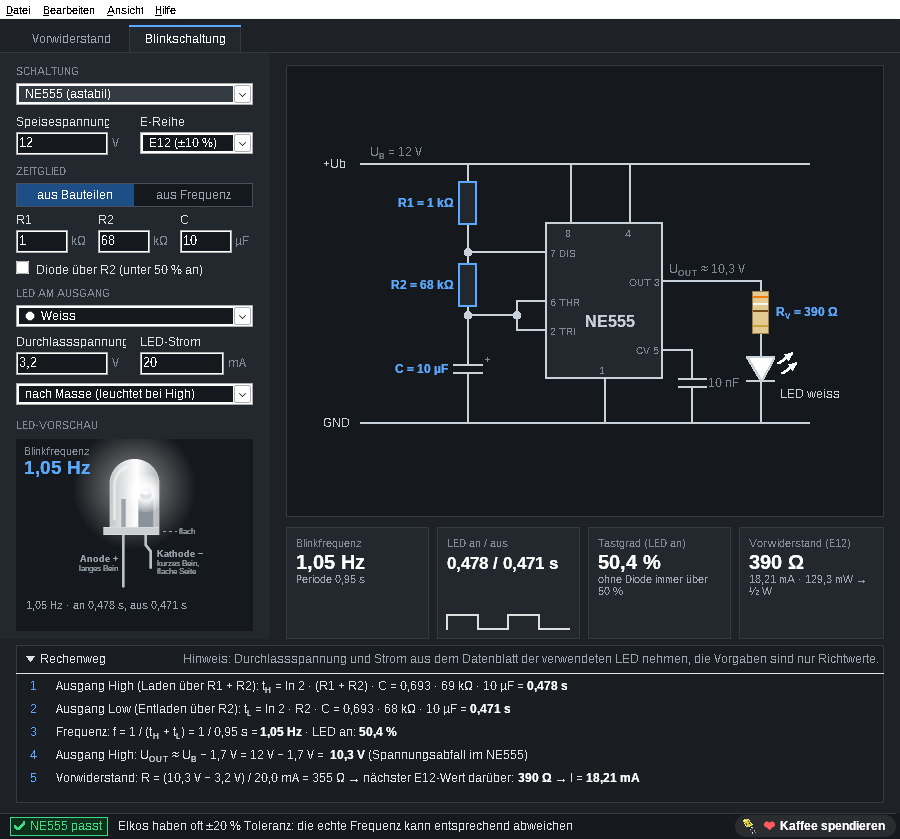
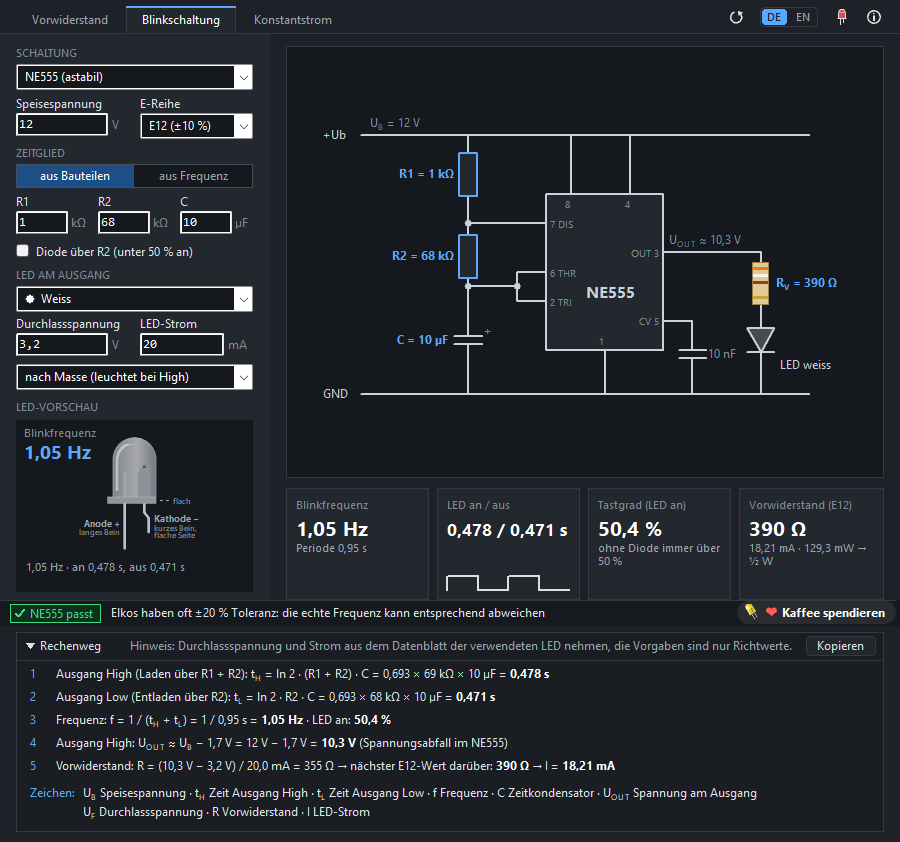
Projektseite 2.4 (#15)
* Projektseite 2.4: Konstantstrom, Stränge parallel, DE/EN-Schalter, Kopieren-Knopf (Entwurf, Bilder folgen)

* Projektseite 2.4: neue Windows-Bilder ohne Menüleiste, Abschnitt Konstantstrom

* CHANGELOG: 2.4 veröffentlicht am 14. November 2026

* Projektseite: Bilder aus der fertigen 2.4, neues Symbol, Vorschaubilder

---------

diff --git a/site/de/index.html b/site/de/index.html
@@ -4,7 +4,7 @@
 <meta charset="utf-8">
 <meta name="viewport" content="width=device-width, initial-scale=1">
 <title>LedPreResistor – kostenloser LED-Vorwiderstandsrechner für Windows und Linux</title>
-<meta name="description" content="Elospeed LedPreResistor berechnet den Vorwiderstand für eine oder mehrere LEDs: Normwert aus E12/E24/E96, Farbringe, tatsächlicher Strom, Leistung und passende Bauform, mit Rechenweg Schritt für Schritt, dazu ein Rechner für Blinkschaltungen mit NE555 und Multivibrator. Kostenlos, Open Source, für Windows und Linux.">
+<meta name="description" content="Elospeed LedPreResistor berechnet den Vorwiderstand für eine oder mehrere LEDs: Normwert aus E12/E24/E96, Farbringe, tatsächlicher Strom, Leistung und passende Bauform, mit Rechenweg Schritt für Schritt, dazu ein Rechner für Blinkschaltungen mit NE555 und Multivibrator sowie Konstantstromquellen mit LM317 oder zwei Transistoren. Kostenlos, Open Source, für Windows und Linux.">
 <meta name="keywords" content="LED Vorwiderstand berechnen, Vorwiderstand Rechner, LED Widerstand, E12, E24, E96, Farbcode Widerstand, NE555 Blinker, astabiler Multivibrator, LED Blinkschaltung, Elektronik, Windows, Linux, kostenlos, Open Source">
 <meta name="author" content="Elospeed">
 <meta name="robots" content="index, follow">
@@ -41,10 +41,10 @@
   "name": "Elospeed LedPreResistor",
   "operatingSystem": "Windows 10, Windows 11 (64-bit), Linux (x86_64)",
   "applicationCategory": "UtilitiesApplication",
-  "description": "Berechnet den Vorwiderstand für eine oder mehrere LEDs in Reihe: nächsthöherer Normwert aus E12, E24 oder E96, Farbringe, tatsächlicher Strom, Leistung und empfohlene Bauform, mit Rechenweg Schritt für Schritt. Rechnet auch LED-Blinkschaltungen mit NE555 oder Multivibrator mit zwei Transistoren.",
+  "description": "Berechnet den Vorwiderstand für eine oder mehrere LEDs in Reihe: nächsthöherer Normwert aus E12, E24 oder E96, Farbringe, tatsächlicher Strom, Leistung und empfohlene Bauform, mit Rechenweg Schritt für Schritt. Rechnet auch LED-Blinkschaltungen mit NE555 oder Multivibrator mit zwei Transistoren sowie Konstantstromquellen mit LM317 oder zwei Transistoren.",
   "url": "https://elospeed.github.io/LedPreResistor/de/",
   "downloadUrl": "https://github.com/Elospeed/LedPreResistor/releases/latest",
-  "softwareVersion": "2.3",
+  "softwareVersion": "2.4",
   "inLanguage": "de",
   "license": "https://opensource.org/licenses/MIT",
   "isAccessibleForFree": true,
@@ -62,6 +62,7 @@
     <nav>
       <a class="hide-m" href="#funktionen">Funktionen</a>
       <a class="hide-m" href="#blinken">Blinken</a>
+      <a class="hide-m" href="#konstantstrom">Konstantstrom</a>
       <a class="hide-m" href="#so-gehts">So geht's</a>
       <a class="hide-m" href="#faq">Fragen</a>
       <a class="hide-m" href="https://github.com/Elospeed/LedPreResistor">GitHub</a>
@@ -79,8 +80,8 @@
     <h1>Der richtige Widerstand<br>für <span class="grad">jede LED</span></h1>
     <p class="lead">Speisespannung eingeben, LED-Farbe und Strom wählen. LedPreResistor sucht den nächsten Normwiderstand, zeigt seine Farbringe, den tatsächlichen Strom und die Leistung und sagt dir, welche Bauform du brauchst. Jeder Rechenschritt steht mit deinen eigenen Zahlen da. Ein kleines Programm für Windows und Linux, kostenlos und Open Source.</p>
     <div class="cta">
-      <a class="btn primary" href="https://github.com/Elospeed/LedPreResistor/releases/download/v2.3/LedPreResistor-2.3.zip">⬇ Download für Windows</a>
-      <a class="btn primary" href="https://github.com/Elospeed/LedPreResistor/releases/download/v2.3/LedPreResistor-2.3-linux-x86_64.tar.gz">⬇ Download für Linux</a>
+      <a class="btn primary" href="https://github.com/Elospeed/LedPreResistor/releases/download/v2.4/LedPreResistor-2.4.zip">⬇ Download für Windows</a>
+      <a class="btn primary" href="https://github.com/Elospeed/LedPreResistor/releases/download/v2.4/LedPreResistor-2.4-linux-x86_64.tar.gz">⬇ Download für Linux</a>
       <a class="btn" href="https://github.com/Elospeed/LedPreResistor">Quelltext auf GitHub</a>
     </div>
     <ul class="facts">
@@ -90,10 +91,11 @@
       <li>Läuft offline</li>
       <li>E12, E24 und E96</li>
       <li>Blinkschaltungen: NE555 und Multivibrator</li>
+      <li>Konstantstrom: LM317 und zwei Transistoren</li>
     </ul>
     <figure class="shot hero-shot">
-      <div class="bar"><img src="../img/icon-32.png" alt=""><span>LedPreResistor · Elospeed 2.3</span><i class="min"></i><i class="max"></i><i class="cls"></i></div>
-      <img src="../img/ledpreresistor-main.png" width="900" height="839" alt="Hauptfenster von LedPreResistor: 12 V, weisse LED, 20 mA. Schaltplan mit 470-Ohm-Widerstand, Farbringe gelb violett braun gold, 18,72 mA, 164,8 mW, empfohlene Bauform ein halbes Watt, darunter der Rechenweg">
+      <div class="bar"><img src="../img/icon-32.png" alt=""><span>LedPreResistor · Elospeed 2.4</span><i class="min"></i><i class="max"></i><i class="cls"></i></div>
+      <img src="../img/ledpreresistor-main.png" width="900" height="842" alt="Hauptfenster von LedPreResistor: 12 V, weisse LED, 20 mA. Schaltplan mit 470-Ohm-Widerstand, Farbringe gelb violett braun gold, 18,72 mA, 164,8 mW, empfohlene Bauform ein halbes Watt, darunter der Rechenweg">
     </figure>
   </div>
 </section>
@@ -107,7 +109,7 @@
       <div class="card"><h3><span class="dot" style="background:var(--yellow)"></span>Leistung und Bauform</h3><p>Tatsächlicher Strom, Leistung im Widerstand und in den LEDs. LedPreResistor empfiehlt ⅛, ¼, ½ oder 1 W und warnt ab 50 % Auslastung, mit geschätzter Erwärmung des Widerstands.</p></div>
       <div class="card"><h3><span class="dot" style="background:var(--green)"></span>Rechenweg Schritt für Schritt</h3><p>Ein aufklappbarer Bereich zeigt die fünf Schritte mit deinen Werten: Spannung am Widerstand, idealer Wert, Normwert, tatsächlicher Strom, Leistung und Erwärmung. Zum Lernen und zum Nachprüfen.</p></div>
       <div class="card"><h3><span class="dot" style="background:var(--blue)"></span>LED-Vorschau</h3><p>Eine realistische 5-mm-LED in der gewählten Farbe, Anode, Kathode und flache Seite beschriftet, damit sie richtig herum eingelötet wird. Im Reiter «Blinkschaltung» blinkt sie mit den berechneten Zeiten.</p></div>
-      <div class="card"><h3><span class="dot" style="background:var(--white)"></span>Schaltplan mit allen Werten</h3><p>Spannungsquelle, Widerstand und LED in einem übersichtlichen Schaltplan, mit Spannung, Strom und Widerstand an jedem Bauteil. Auch mehrere LEDs in Reihe.</p></div>
+      <div class="card"><h3><span class="dot" style="background:var(--white)"></span>Schaltplan mit allen Werten</h3><p>Spannungsquelle, Widerstand und LED in einem übersichtlichen Schaltplan, mit Spannung, Strom und Widerstand an jedem Bauteil. Auch mehrere LEDs in Reihe und mehrere gleiche Stränge parallel, jeder mit eigenem Vorwiderstand.</p></div>
       <div class="card"><h3><span class="dot" style="background:var(--accent)"></span>LED-Info eingebaut</h3><p>Mit F1 öffnet sich «Die Leuchtdiode»: wie eine LED funktioniert, Farben und Durchlassspannungen, Polarität, Vorwiderstand, Konstantstrom und Praxistipps. Im Browser, auch offline.</p></div>
     </div>
   </div>
@@ -122,14 +124,14 @@
         <li><strong>Grün, gelb, rot</strong> in der Statuszeile: Auslastung eines normalen ¼-W-Widerstands und geschätzte Erwärmung</li>
         <li><strong>Ab 50 % Auslastung</strong> wird die nächstgrössere Bauform empfohlen, wie es erfahrene Bastler machen</li>
         <li><strong>Zu viel Leistung für einen Widerstand?</strong> Das Programm sagt es und schlägt eine Konstantstromquelle vor</li>
-        <li><strong>Resultat kopieren</strong> mit Strg+Umschalt+C, für Notizen oder einen Forumsbeitrag</li>
+        <li><strong>Resultat kopieren</strong> mit dem Knopf «Kopieren» oder Strg+Umschalt+C: Resultat, Rechenweg und Zeichen-Erklärung als einfacher Text, für Notizen oder einen Forumsbeitrag</li>
         <li>Vorgaben für rote, gelbe, grüne, blaue, weisse und Infrarot-LEDs, oder die eigene Durchlassspannung aus dem Datenblatt</li>
         <li>Komma und Punkt gehen beide; Pfeiltasten und Mausrad ändern die Werte</li>
       </ul>
     </div>
     <figure class="shot">
-      <div class="bar"><img src="../img/icon-32.png" alt=""><span>LedPreResistor · Elospeed 2.3</span><i class="min"></i><i class="max"></i><i class="cls"></i></div>
-      <img src="../img/ledpreresistor-warning.png" width="900" height="839" alt="LedPreResistor mit 9 V, roter LED, 25 mA: 330 Ohm, 148,5 mW, ein Viertelwatt-Widerstand wäre zu 59 Prozent ausgelastet, die Statuszeile warnt gelb und empfiehlt ein halbes Watt" loading="lazy">
+      <div class="bar"><img src="../img/icon-32.png" alt=""><span>LedPreResistor · Elospeed 2.4</span><i class="min"></i><i class="max"></i><i class="cls"></i></div>
+      <img src="../img/ledpreresistor-warning.png" width="900" height="842" alt="LedPreResistor mit 9 V, roter LED, 25 mA: 330 Ohm, 148,5 mW, ein Viertelwatt-Widerstand wäre zu 59 Prozent ausgelastet, die Statuszeile warnt gelb und empfiehlt ein halbes Watt" loading="lazy">
     </figure>
   </div>
 </section>
@@ -138,7 +140,7 @@
   <div class="wrap split rev">
     <div>
       <h2>Die LED blinken lassen</h2>
-      <p class="sub" style="margin-bottom:0">Neu in Version 2.3: Der Reiter «Blinkschaltung» rechnet die zwei klassischen Bastel-Blinker, mit Schaltplan, Rechenweg und Prüfungen.</p>
+      <p class="sub" style="margin-bottom:0">Seit Version 2.3: Der Reiter «Blinkschaltung» rechnet die zwei klassischen Bastel-Blinker, mit Schaltplan, Rechenweg und Prüfungen.</p>
       <ul class="ticks">
         <li><strong>NE555 astabil:</strong> An- und Aus-Zeit, Frequenz und Tastgrad aus R1, R2 und C, wahlweise mit Diode über R2 für kurze Blitze</li>
         <li><strong>Multivibrator mit zwei BC547:</strong> zwei LEDs blinken im Wechsel, standardmässig symmetrisch 1:1</li>
@@ -149,13 +151,33 @@
       </ul>
     </div>
     <figure class="shot">
-      <div class="bar"><img src="../img/icon-32.png" alt=""><span>LedPreResistor · Elospeed 2.3</span><i class="min"></i><i class="max"></i><i class="cls"></i></div>
-      <img src="../img/ledpreresistor-blink.png" width="900" height="839" alt="LedPreResistor Reiter Blinkschaltung: NE555 astabil mit R1 1 Kiloohm, R2 68 Kiloohm und 10 Mikrofarad an 12 V, 1,05 Hz, Tastgrad 50,4 Prozent, Vorwiderstand 390 Ohm für eine weisse LED, Schaltplan und Rechenweg" loading="lazy">
+      <div class="bar"><img src="../img/icon-32.png" alt=""><span>LedPreResistor · Elospeed 2.4</span><i class="min"></i><i class="max"></i><i class="cls"></i></div>
+      <img src="../img/ledpreresistor-blink.png" width="900" height="842" alt="LedPreResistor Reiter Blinkschaltung: NE555 astabil mit R1 1 Kiloohm, R2 68 Kiloohm und 10 Mikrofarad an 12 V, 1,05 Hz, Tastgrad 50,4 Prozent, Vorwiderstand 390 Ohm für eine weisse LED, Schaltplan und Rechenweg" loading="lazy">
     </figure>
   </div>
 </section>
 
-<section id="so-gehts">
+<section id="konstantstrom">
+  <div class="wrap split">
+    <div>
+      <h2>Konstantstrom für die LEDs</h2>
+      <p class="sub" style="margin-bottom:0">Neu in Version 2.4: Der Reiter «Konstantstrom» hält den LED-Strom fest, auch wenn die Speisespannung schwankt, zum Beispiel 12 bis 14,4 V im Auto.</p>
+      <ul class="ticks">
+        <li><strong>LM317 als Stromquelle:</strong> Fühlerwiderstand R = 1,25 V / I aus der E-Reihe, seine Leistung, die nötige Mindestspannung und der Verlust im Regler; Vorschlag LM317L oder LM317, bei Bedarf mit Hinweis auf einen Kühlkörper</li>
+        <li><strong>Zwei Transistoren:</strong> Fühlerwiderstand R_S = 0,6 V / I und Basiswiderstand R_B; T1 wird nach Strom und Leistung vorgeschlagen (BC547, BC337 oder BD139)</li>
+        <li><strong>Speisespannung als Bereich «von … bis»:</strong> zeigt, wie wenig sich der Strom ändert, im Vergleich zu einem einfachen Vorwiderstand</li>
+        <li>Schaltplan mit allen Werten, Rechenweg, Zeichen-Erklärung und Warnungen wie in den anderen Reitern</li>
+        <li>Die LED-Info erklärt Konstantstrom, Wärme und Kühlkörper in einem eigenen Kapitel</li>
+      </ul>
+    </div>
+    <figure class="shot">
+      <div class="bar"><img src="../img/icon-32.png" alt=""><span>LedPreResistor · Elospeed 2.4</span><i class="min"></i><i class="max"></i><i class="cls"></i></div>
+      <img src="../img/ledpreresistor-ksq.png" width="900" height="842" alt="LedPreResistor Reiter Konstantstrom: LM317 als Stromquelle für zwei weisse LEDs mit 20 mA, Speisespannung 12 bis 14,4 V, Fühlerwiderstand 68 Ohm, 18,38 mA, Schaltplan und Rechenweg" loading="lazy">
+    </figure>
+  </div>
+</section>
+
+<section id="so-gehts" class="alt">
   <div class="wrap">
     <h2>So geht's</h2>
     <p class="sub">In drei Schritten vom Datenblatt zum richtigen Widerstand.</p>
@@ -176,7 +198,7 @@
   </div>
 </section>
 
-<section class="alt">
+<section>
   <div class="wrap split">
     <div>
       <h2>Rechnen und dabei lernen</h2>
@@ -197,7 +219,7 @@
   </div>
 </section>
 
-<section id="faq">
+<section id="faq" class="alt">
   <div class="wrap">
     <h2>Fragen und Antworten</h2>
     <details>
@@ -222,11 +244,11 @@
     </details>
     <details>
       <summary>Gibt es LedPreResistor auch auf Englisch?</summary>
-      <p>Ja, seit Version 2.1. Programm und LED-Info gibt es auf Deutsch und Englisch. Auf einem deutschen Windows startet LedPreResistor deutsch, sonst englisch; unter Ansicht → Sprache lässt sich jederzeit umschalten.</p>
+      <p>Ja, seit Version 2.1. Programm und LED-Info gibt es auf Deutsch und Englisch. Auf einem deutschen Windows startet LedPreResistor deutsch, sonst englisch; mit dem Schalter DE/EN oben rechts lässt sich jederzeit umschalten.</p>
     </details>
     <details>
       <summary>Gibt es eine Linux-Version?</summary>
-      <p>Ja, seit Version 2.2: eine eigene Linux-Version (x86_64, GTK2), ohne Wine. <code>LedPreResistor-2.3-linux-x86_64.tar.gz</code> entpacken und <code>./LedPreResistor</code> starten. <code>./install.sh</code> nimmt das Programm ohne root ins Startmenü auf. Es braucht GTK2, das auf den meisten Systemen schon da ist (sonst <code>sudo apt install libgtk2.0-0</code>, <code>sudo dnf install gtk2</code> oder <code>sudo pacman -S gtk2</code>). Die Einstellungen liegen in <code>~/.config/LedPreResistor/</code>.</p>
+      <p>Ja, seit Version 2.2: eine eigene Linux-Version (x86_64, GTK2), ohne Wine. <code>LedPreResistor-2.4-linux-x86_64.tar.gz</code> entpacken und <code>./LedPreResistor</code> starten. <code>./install.sh</code> nimmt das Programm ohne root ins Startmenü auf. Es braucht GTK2, das auf den meisten Systemen schon da ist (sonst <code>sudo apt install libgtk2.0-0</code>, <code>sudo dnf install gtk2</code> oder <code>sudo pacman -S gtk2</code>). Die Einstellungen liegen in <code>~/.config/LedPreResistor/</code>.</p>
     </details>
     <details>
       <summary>Woher kommt LedPreResistor?</summary>
@@ -239,13 +261,13 @@
   </div>
 </section>
 
-<section class="alt">
+<section>
   <div class="wrap" style="text-align:center">
     <h2>Bereit für das nächste LED-Projekt?</h2>
     <p class="sub" style="margin:0 auto 26px">Für Windows oder Linux herunterladen, entpacken und losrechnen.</p>
     <div class="cta">
-      <a class="btn primary" href="https://github.com/Elospeed/LedPreResistor/releases/download/v2.3/LedPreResistor-2.3.zip">⬇ Windows (ZIP)</a>
-      <a class="btn primary" href="https://github.com/Elospeed/LedPreResistor/releases/download/v2.3/LedPreResistor-2.3-linux-x86_64.tar.gz">⬇ Linux (tar.gz)</a>
+      <a class="btn primary" href="https://github.com/Elospeed/LedPreResistor/releases/download/v2.4/LedPreResistor-2.4.zip">⬇ Windows (ZIP)</a>
+      <a class="btn primary" href="https://github.com/Elospeed/LedPreResistor/releases/download/v2.4/LedPreResistor-2.4-linux-x86_64.tar.gz">⬇ Linux (tar.gz)</a>
       <a class="btn" href="https://github.com/Elospeed/LedPreResistor/blob/main/LIESMICH.md">Anleitung lesen</a>
     </div>
     <p class="support">LedPreResistor ist ein Ein-Personen-Hobbyprojekt und bleibt kostenlos. Wenn es dir hilft, kannst du mir auf <a href="https://ko-fi.com/elospeed">Ko-fi einen Kaffee spendieren</a> ☕ oder einfach <a href="https://github.com/Elospeed/LedPreResistor">auf GitHub einen Stern geben</a>. Beides ganz freiwillig.</p>

diff --git a/site/index.html b/site/index.html
@@ -4,7 +4,7 @@
 <meta charset="utf-8">
 <meta name="viewport" content="width=device-width, initial-scale=1">
 <title>LedPreResistor – free LED series resistor calculator for Windows and Linux</title>
-<meta name="description" content="Elospeed LedPreResistor calculates the series resistor for one or more LEDs: E12/E24/E96 standard value, colour bands, real current, power and the right resistor size, with a step-by-step explanation, plus a blink circuit calculator for the NE555 and the two-transistor multivibrator. Free, open source, for Windows and Linux.">
+<meta name="description" content="Elospeed LedPreResistor calculates the series resistor for one or more LEDs: E12/E24/E96 standard value, colour bands, real current, power and the right resistor size, with a step-by-step explanation, plus a blink circuit calculator for the NE555 and the two-transistor multivibrator, and constant current sources with the LM317 or two transistors. Free, open source, for Windows and Linux.">
 <meta name="keywords" content="LED resistor calculator, series resistor, LED current limiting resistor, E12, E24, E96, resistor colour code, NE555 blinker, astable multivibrator, LED flasher, electronics, Windows, Linux, free, open source">
 <meta name="author" content="Elospeed">
 <meta name="robots" content="index, follow">
@@ -41,10 +41,10 @@
   "name": "Elospeed LedPreResistor",
   "operatingSystem": "Windows 10, Windows 11 (64-bit), Linux (x86_64)",
   "applicationCategory": "UtilitiesApplication",
-  "description": "Calculates the series resistor for one or more LEDs in series: next standard value from E12, E24 or E96, colour bands, real current, power and recommended resistor size, with a step-by-step explanation. Also calculates LED blink circuits with the NE555 or a two-transistor multivibrator.",
+  "description": "Calculates the series resistor for one or more LEDs in series: next standard value from E12, E24 or E96, colour bands, real current, power and recommended resistor size, with a step-by-step explanation. Also calculates LED blink circuits with the NE555 or a two-transistor multivibrator, and constant current sources with the LM317 or two transistors.",
   "url": "https://elospeed.github.io/LedPreResistor/",
   "downloadUrl": "https://github.com/Elospeed/LedPreResistor/releases/latest",
-  "softwareVersion": "2.3",
+  "softwareVersion": "2.4",
   "license": "https://opensource.org/licenses/MIT",
   "isAccessibleForFree": true,
   "offers": { "@type": "Offer", "price": "0", "priceCurrency": "USD" },
@@ -61,6 +61,7 @@
     <nav>
       <a class="hide-m" href="#features">Features</a>
       <a class="hide-m" href="#blink">Blink circuits</a>
+      <a class="hide-m" href="#constant-current">Constant current</a>
       <a class="hide-m" href="#how">How it works</a>
       <a class="hide-m" href="#faq">FAQ</a>
       <a class="hide-m" href="https://github.com/Elospeed/LedPreResistor">GitHub</a>
@@ -78,8 +79,8 @@
     <h1>The right resistor<br>for <span class="grad">every LED</span></h1>
     <p class="lead">Enter the supply voltage, pick the LED colour and the current. LedPreResistor finds the next standard resistor, shows its colour bands, the real current and the power, and tells you which resistor size to use. Every step of the calculation is shown with your own numbers. One small program for Windows and Linux, free and open source.</p>
     <div class="cta">
-      <a class="btn primary" href="https://github.com/Elospeed/LedPreResistor/releases/download/v2.3/LedPreResistor-2.3.zip">⬇ Download for Windows</a>
-      <a class="btn primary" href="https://github.com/Elospeed/LedPreResistor/releases/download/v2.3/LedPreResistor-2.3-linux-x86_64.tar.gz">⬇ Download for Linux</a>
+      <a class="btn primary" href="https://github.com/Elospeed/LedPreResistor/releases/download/v2.4/LedPreResistor-2.4.zip">⬇ Download for Windows</a>
+      <a class="btn primary" href="https://github.com/Elospeed/LedPreResistor/releases/download/v2.4/LedPreResistor-2.4-linux-x86_64.tar.gz">⬇ Download for Linux</a>
       <a class="btn" href="https://github.com/Elospeed/LedPreResistor">View source on GitHub</a>
     </div>
     <ul class="facts">
@@ -89,12 +90,13 @@
       <li>Works offline</li>
       <li>E12, E24 and E96</li>
       <li>Blink circuits: NE555 and multivibrator</li>
+      <li>Constant current: LM317 and two transistors</li>
     </ul>
     <figure class="shot hero-shot">
-      <div class="bar"><img src="img/icon-32.png" alt=""><span>LedPreResistor · Elospeed 2.3</span><i class="min"></i><i class="max"></i><i class="cls"></i></div>
-      <img src="img/ledpreresistor-main-en.png" width="900" height="839" alt="LedPreResistor main window: 12 V supply, white LED, 20 mA. Schematic with 470 ohm resistor, colour bands yellow violet brown gold, 18.72 mA, 164.8 mW, recommended size half a watt, and the calculation step by step">
+      <div class="bar"><img src="img/icon-32.png" alt=""><span>LedPreResistor · Elospeed 2.4</span><i class="min"></i><i class="max"></i><i class="cls"></i></div>
+      <img src="img/ledpreresistor-main-en.png" width="900" height="842" alt="LedPreResistor main window: 12 V supply, white LED, 20 mA. Schematic with 470 ohm resistor, colour bands yellow violet brown gold, 18.72 mA, 164.8 mW, recommended size half a watt, and the calculation step by step">
     </figure>
-    <figcaption>English and German interface: it follows your Windows language, and View → Language switches at any time.</figcaption>
+    <figcaption>English and German interface: it follows your Windows language, and the DE/EN switch at the top right changes it at any time.</figcaption>
   </div>
 </section>
 
@@ -107,7 +109,7 @@
       <div class="card"><h3><span class="dot" style="background:var(--yellow)"></span>Power and the right size</h3><p>Real current, power in the resistor and in the LEDs. LedPreResistor recommends ⅛, ¼, ½ or 1 W and warns from 50 % load, with an estimated temperature rise of the resistor.</p></div>
       <div class="card"><h3><span class="dot" style="background:var(--green)"></span>The calculation, step by step</h3><p>A fold-out panel walks through the five steps with your values: voltage across the resistor, ideal value, standard value, real current, power and warming. Ideal for learning and for checking.</p></div>
       <div class="card"><h3><span class="dot" style="background:var(--blue)"></span>LED preview</h3><p>A realistic 5 mm LED in the selected colour, with anode, cathode and the flat side labelled, so you solder it the right way round. In the blink circuit tab it blinks with the calculated times.</p></div>
-      <div class="card"><h3><span class="dot" style="background:var(--white)"></span>Schematic with all values</h3><p>Supply, resistor and LED in a clear circuit diagram, with voltage, current and resistance at every part. Several LEDs in series are supported.</p></div>
+      <div class="card"><h3><span class="dot" style="background:var(--white)"></span>Schematic with all values</h3><p>Supply, resistor and LED in a clear circuit diagram, with voltage, current and resistance at every part. Several LEDs in series, and several equal strings in parallel, each with its own resistor.</p></div>
       <div class="card"><h3><span class="dot" style="background:var(--accent)"></span>LED info built in</h3><p>Press F1 for “The LED”: how an LED works, colours and forward voltages, polarity, series resistor, constant current and practical tips. Opens in your browser, also offline.</p></div>
     </div>
   </div>
@@ -122,14 +124,14 @@
         <li><strong>Green, yellow, red</strong> in the status bar: load of a standard ¼ W resistor and the estimated warming</li>
         <li><strong>From 50 % load</strong> the next bigger size is recommended, as experienced builders do</li>
         <li><strong>Too much power for a resistor?</strong> It says so and suggests a constant current source</li>
-        <li><strong>Copy the result</strong> with Ctrl+Shift+C, for your notes or a forum post</li>
+        <li><strong>Copy the result</strong> with the Copy button or Ctrl+Shift+C: result, calculation steps and symbol legend as plain text, for your notes or a forum post</li>
         <li>Presets for red, yellow, green, blue, white and infrared LEDs, or your own forward voltage from the datasheet</li>
         <li>Comma and dot both work as decimal separator; arrow keys and the mouse wheel change values</li>
       </ul>
     </div>
     <figure class="shot">
-      <div class="bar"><img src="img/icon-32.png" alt=""><span>LedPreResistor · Elospeed 2.3</span><i class="min"></i><i class="max"></i><i class="cls"></i></div>
-      <img src="img/ledpreresistor-warning-en.png" width="900" height="839" alt="LedPreResistor with 9 V, red LED, 25 mA: 330 ohm, 148.5 mW, a quarter watt resistor would be 59 percent loaded, the status bar shows a yellow warning and recommends half a watt" loading="lazy">
+      <div class="bar"><img src="img/icon-32.png" alt=""><span>LedPreResistor · Elospeed 2.4</span><i class="min"></i><i class="max"></i><i class="cls"></i></div>
+      <img src="img/ledpreresistor-warning-en.png" width="900" height="842" alt="LedPreResistor with 9 V, red LED, 25 mA: 330 ohm, 148.5 mW, a quarter watt resistor would be 59 percent loaded, the status bar shows a yellow warning and recommends half a watt" loading="lazy">
     </figure>
   </div>
 </section>
@@ -138,7 +140,7 @@
   <div class="wrap split rev">
     <div>
       <h2>Make your LED blink</h2>
-      <p class="sub" style="margin-bottom:0">New in version 2.3: the “Blink circuit” tab calculates the two classic hobby blinkers, with schematic, calculation steps and checks.</p>
+      <p class="sub" style="margin-bottom:0">Since version 2.3: the “Blink circuit” tab calculates the two classic hobby blinkers, with schematic, calculation steps and checks.</p>
       <ul class="ticks">
         <li><strong>NE555 astable:</strong> on and off time, frequency and duty cycle from R1, R2 and C, optionally with a diode across R2 for short flashes</li>
         <li><strong>Multivibrator with two BC547:</strong> two LEDs blinking alternately, symmetric 1:1 by default</li>
@@ -149,13 +151,33 @@
       </ul>
     </div>
     <figure class="shot">
-      <div class="bar"><img src="img/icon-32.png" alt=""><span>LedPreResistor · Elospeed 2.3</span><i class="min"></i><i class="max"></i><i class="cls"></i></div>
-      <img src="img/ledpreresistor-blink-en.png" width="900" height="839" alt="LedPreResistor blink circuit tab: NE555 astable with R1 1 kilohm, R2 68 kilohm and 10 microfarad at 12 V, 1.05 Hz, 50.4 percent duty cycle, series resistor 390 ohm for a white LED, schematic and calculation steps" loading="lazy">
+      <div class="bar"><img src="img/icon-32.png" alt=""><span>LedPreResistor · Elospeed 2.4</span><i class="min"></i><i class="max"></i><i class="cls"></i></div>
+      <img src="img/ledpreresistor-blink-en.png" width="900" height="842" alt="LedPreResistor blink circuit tab: NE555 astable with R1 1 kilohm, R2 68 kilohm and 10 microfarad at 12 V, 1.05 Hz, 50.4 percent duty cycle, series resistor 390 ohm for a white LED, schematic and calculation steps" loading="lazy">
     </figure>
   </div>
 </section>
 
-<section id="how">
+<section id="constant-current">
+  <div class="wrap split">
+    <div>
+      <h2>Constant current for your LEDs</h2>
+      <p class="sub" style="margin-bottom:0">New in version 2.4: the “Constant current” tab keeps the LED current steady, even when the supply voltage changes, for example 12 to 14.4 V in a car.</p>
+      <ul class="ticks">
+        <li><strong>LM317 as current source:</strong> sense resistor R = 1.25 V / I from the E series, its power, the minimum supply voltage and the loss in the regulator; LM317L or LM317 suggested, with a heatsink hint where needed</li>
+        <li><strong>Two transistors:</strong> sense resistor R_S = 0.6 V / I and base resistor R_B; T1 is suggested by current and power (BC547, BC337 or BD139)</li>
+        <li><strong>Supply as a range “from … to”:</strong> shows how little the current changes, compared with a simple series resistor</li>
+        <li>Schematic with every value, calculation steps, symbol legend and warnings, like the other tabs</li>
+        <li>The LED info explains constant current, heat and heatsinks in its own chapter</li>
+      </ul>
+    </div>
+    <figure class="shot">
+      <div class="bar"><img src="img/icon-32.png" alt=""><span>LedPreResistor · Elospeed 2.4</span><i class="min"></i><i class="max"></i><i class="cls"></i></div>
+      <img src="img/ledpreresistor-ksq-en.png" width="900" height="842" alt="LedPreResistor constant current tab: LM317 as current source for two white LEDs at 20 mA, supply 12 to 14.4 V, sense resistor 68 ohm, 18.38 mA, schematic and calculation steps" loading="lazy">
+    </figure>
+  </div>
+</section>
+
+<section id="how" class="alt">
   <div class="wrap">
     <h2>How it works</h2>
     <p class="sub">Three steps from the datasheet to the right resistor.</p>
@@ -176,7 +198,7 @@
   </div>
 </section>
 
-<section class="alt">
+<section>
   <div class="wrap split">
     <div>
       <h2>Learn while you calculate</h2>
@@ -197,7 +219,7 @@
   </div>
 </section>
 
-<section id="faq">
+<section id="faq" class="alt">
   <div class="wrap">
     <h2>Questions and answers</h2>
     <details>
@@ -222,11 +244,11 @@
     </details>
     <details>
       <summary>Is there an English version?</summary>
-      <p>Yes, since version 2.1. The program and the LED info are in English and German. LedPreResistor starts in German on a German Windows and in English everywhere else; View → Language switches at any time.</p>
+      <p>Yes, since version 2.1. The program and the LED info are in English and German. LedPreResistor starts in German on a German Windows and in English everywhere else; the DE/EN switch at the top right changes it at any time.</p>
     </details>
     <details>
       <summary>Is there a Linux version?</summary>
-      <p>Yes, since version 2.2: a native Linux build (x86_64, GTK2), no Wine needed. Unpack <code>LedPreResistor-2.3-linux-x86_64.tar.gz</code> and run <code>./LedPreResistor</code>. <code>./install.sh</code> adds it to your application menu without root. It needs GTK2, which most desktops already have (otherwise <code>sudo apt install libgtk2.0-0</code>, <code>sudo dnf install gtk2</code> or <code>sudo pacman -S gtk2</code>). Settings are stored in <code>~/.config/LedPreResistor/</code>.</p>
+      <p>Yes, since version 2.2: a native Linux build (x86_64, GTK2), no Wine needed. Unpack <code>LedPreResistor-2.4-linux-x86_64.tar.gz</code> and run <code>./LedPreResistor</code>. <code>./install.sh</code> adds it to your application menu without root. It needs GTK2, which most desktops already have (otherwise <code>sudo apt install libgtk2.0-0</code>, <code>sudo dnf install gtk2</code> or <code>sudo pacman -S gtk2</code>). Settings are stored in <code>~/.config/LedPreResistor/</code>.</p>
     </details>
     <details>
       <summary>Where does LedPreResistor come from?</summary>
@@ -239,13 +261,13 @@
   </div>
 </section>
 
-<section class="alt">
+<section>
   <div class="wrap" style="text-align:center">
     <h2>Ready for your next LED project?</h2>
     <p class="sub" style="margin:0 auto 26px">Download it for Windows or Linux, unpack it and start calculating.</p>
     <div class="cta">
-      <a class="btn primary" href="https://github.com/Elospeed/LedPreResistor/releases/download/v2.3/LedPreResistor-2.3.zip">⬇ Windows (ZIP)</a>
-      <a class="btn primary" href="https://github.com/Elospeed/LedPreResistor/releases/download/v2.3/LedPreResistor-2.3-linux-x86_64.tar.gz">⬇ Linux (tar.gz)</a>
+      <a class="btn primary" href="https://github.com/Elospeed/LedPreResistor/releases/download/v2.4/LedPreResistor-2.4.zip">⬇ Windows (ZIP)</a>
+      <a class="btn primary" href="https://github.com/Elospeed/LedPreResistor/releases/download/v2.4/LedPreResistor-2.4-linux-x86_64.tar.gz">⬇ Linux (tar.gz)</a>
       <a class="btn" href="https://github.com/Elospeed/LedPreResistor#readme">Read the guide</a>
     </div>
     <p class="support">LedPreResistor is a one-person hobby project and free for good. If it helps you, you can <a href="https://ko-fi.com/elospeed">buy me a coffee on Ko-fi</a> ☕ or simply <a href="https://github.com/Elospeed/LedPreResistor">give it a star on GitHub</a>. Both are entirely optional.</p>

diff --git a/CHANGELOG.md b/CHANGELOG.md
@@ -7,7 +7,7 @@ Die technischen Hintergründe stehen im [Entwicklungslog](docs/ENTWICKLUNGSLOG.m
 
 ---
 
-## 2.4 – noch nicht veröffentlicht
+## 2.4 – 14. November 2026
 
 ### Konstantstrom
 - Neuer Reiter «Konstantstrom» (Strg+3) mit zwei Schaltungen: LM317 als Stromquelle und Konstantstromquelle mit zwei Transistoren. Die gewählte Schaltung bleibt beim nächsten Start erhalten.
